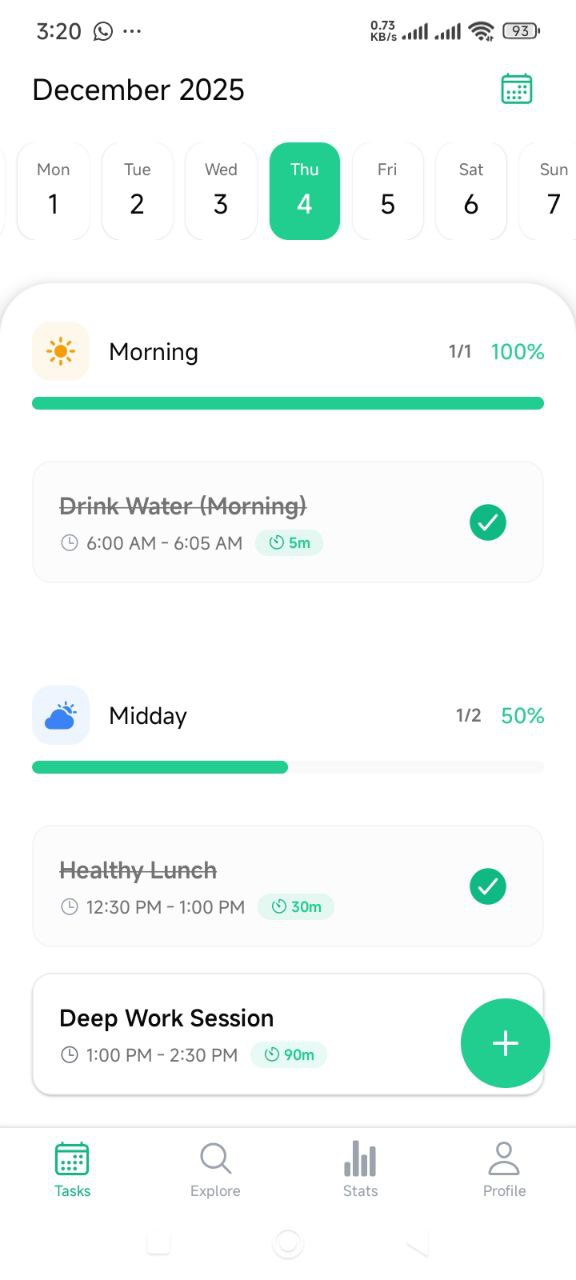
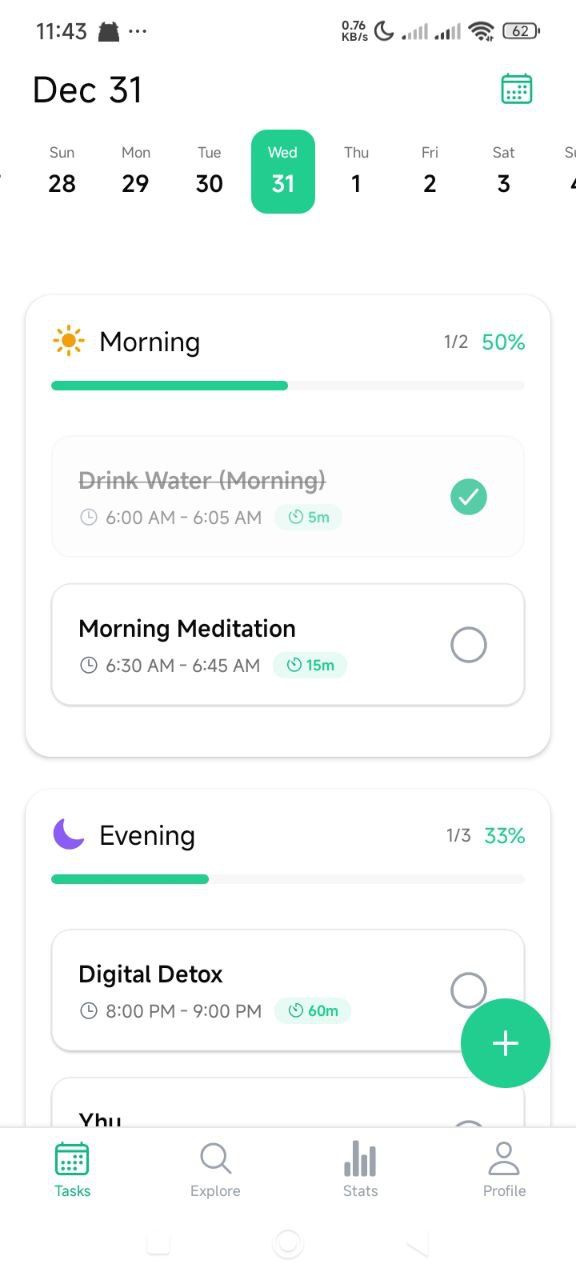
feat: update app

diff --git a/src/components/Hero.tsx b/src/components/Hero.tsx
@@ -127,7 +127,7 @@ export function Hero() {
                     <p className="text-xs font-medium text-muted-foreground">
                       Just now
                     </p>
-                    <p className="text-sm font-bold">Healthy Lunch Completed</p>
+                    <p className="text-sm font-bold">Drink Water Completed</p>
                   </div>
                 </div>
               </div>
